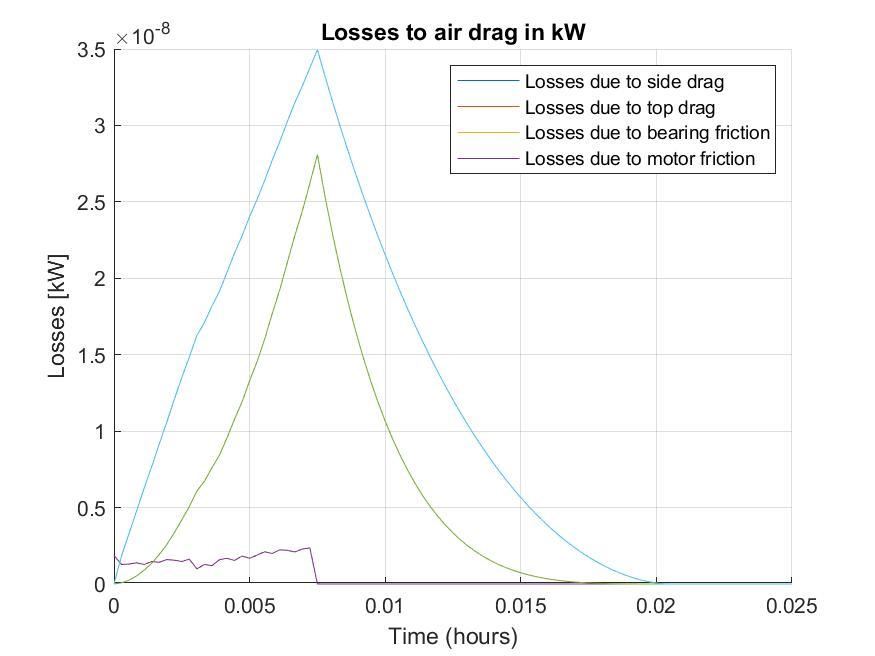
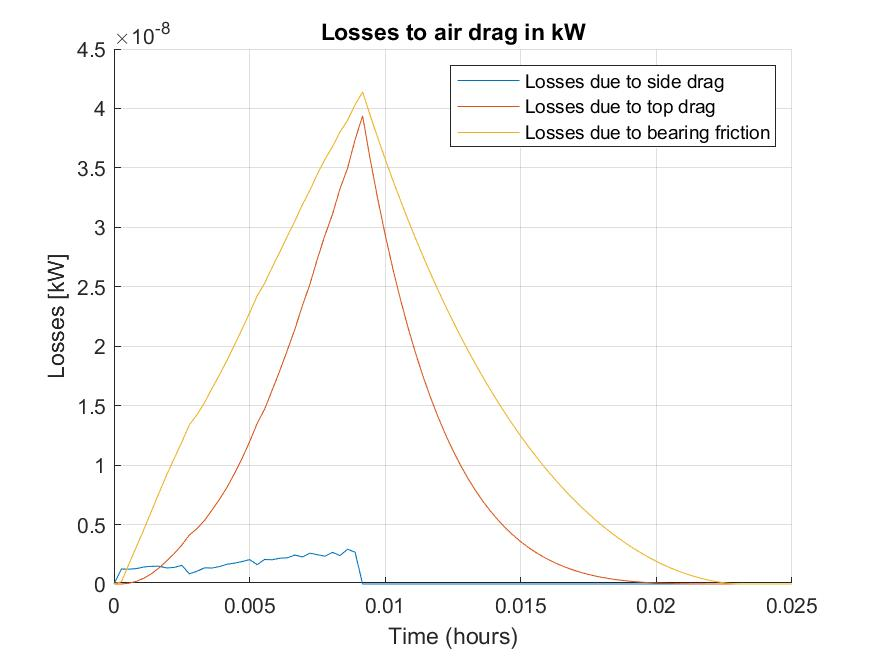
Imported dataset 2

diff --git a/main_scale.m b/main_scale.m
@@ -11,7 +11,7 @@ ScaleConstants;
 % Calculations %
 %%%%%%%%%%%%%%%%
 %%% Read CSV data
-table_energy = readmatrix(['datasets/CSVfiles/Dataset_3.csv']);
+table_energy = readmatrix(['datasets/CSVfiles/Dataset_2.csv']);
 
 %%% Setting up tables                                                       %Heat vessel table for data logging
 table_flywheel(1,:) = table_energy(1,:) - table_energy(1,1);                      

diff --git a/plotGraphs.m b/plotGraphs.m
@@ -13,7 +13,7 @@ bearing_drag = table_flywheel(7,:);
 motor_drag = table_flywheel(8,:);
 E_energy = table_flywheel(3,:);
 E_inflow = table_flywheel(4,:);
-table_experiment = readmatrix(['datasets/CSVfiles/Dataset_3_angular_velocity.csv']);
+table_experiment = readmatrix(['datasets/CSVfiles/Dataset_2_angular_velocity.csv']);
 ang_experiment = table_experiment(2,:)
 
 %%Figure 1 for surplus
